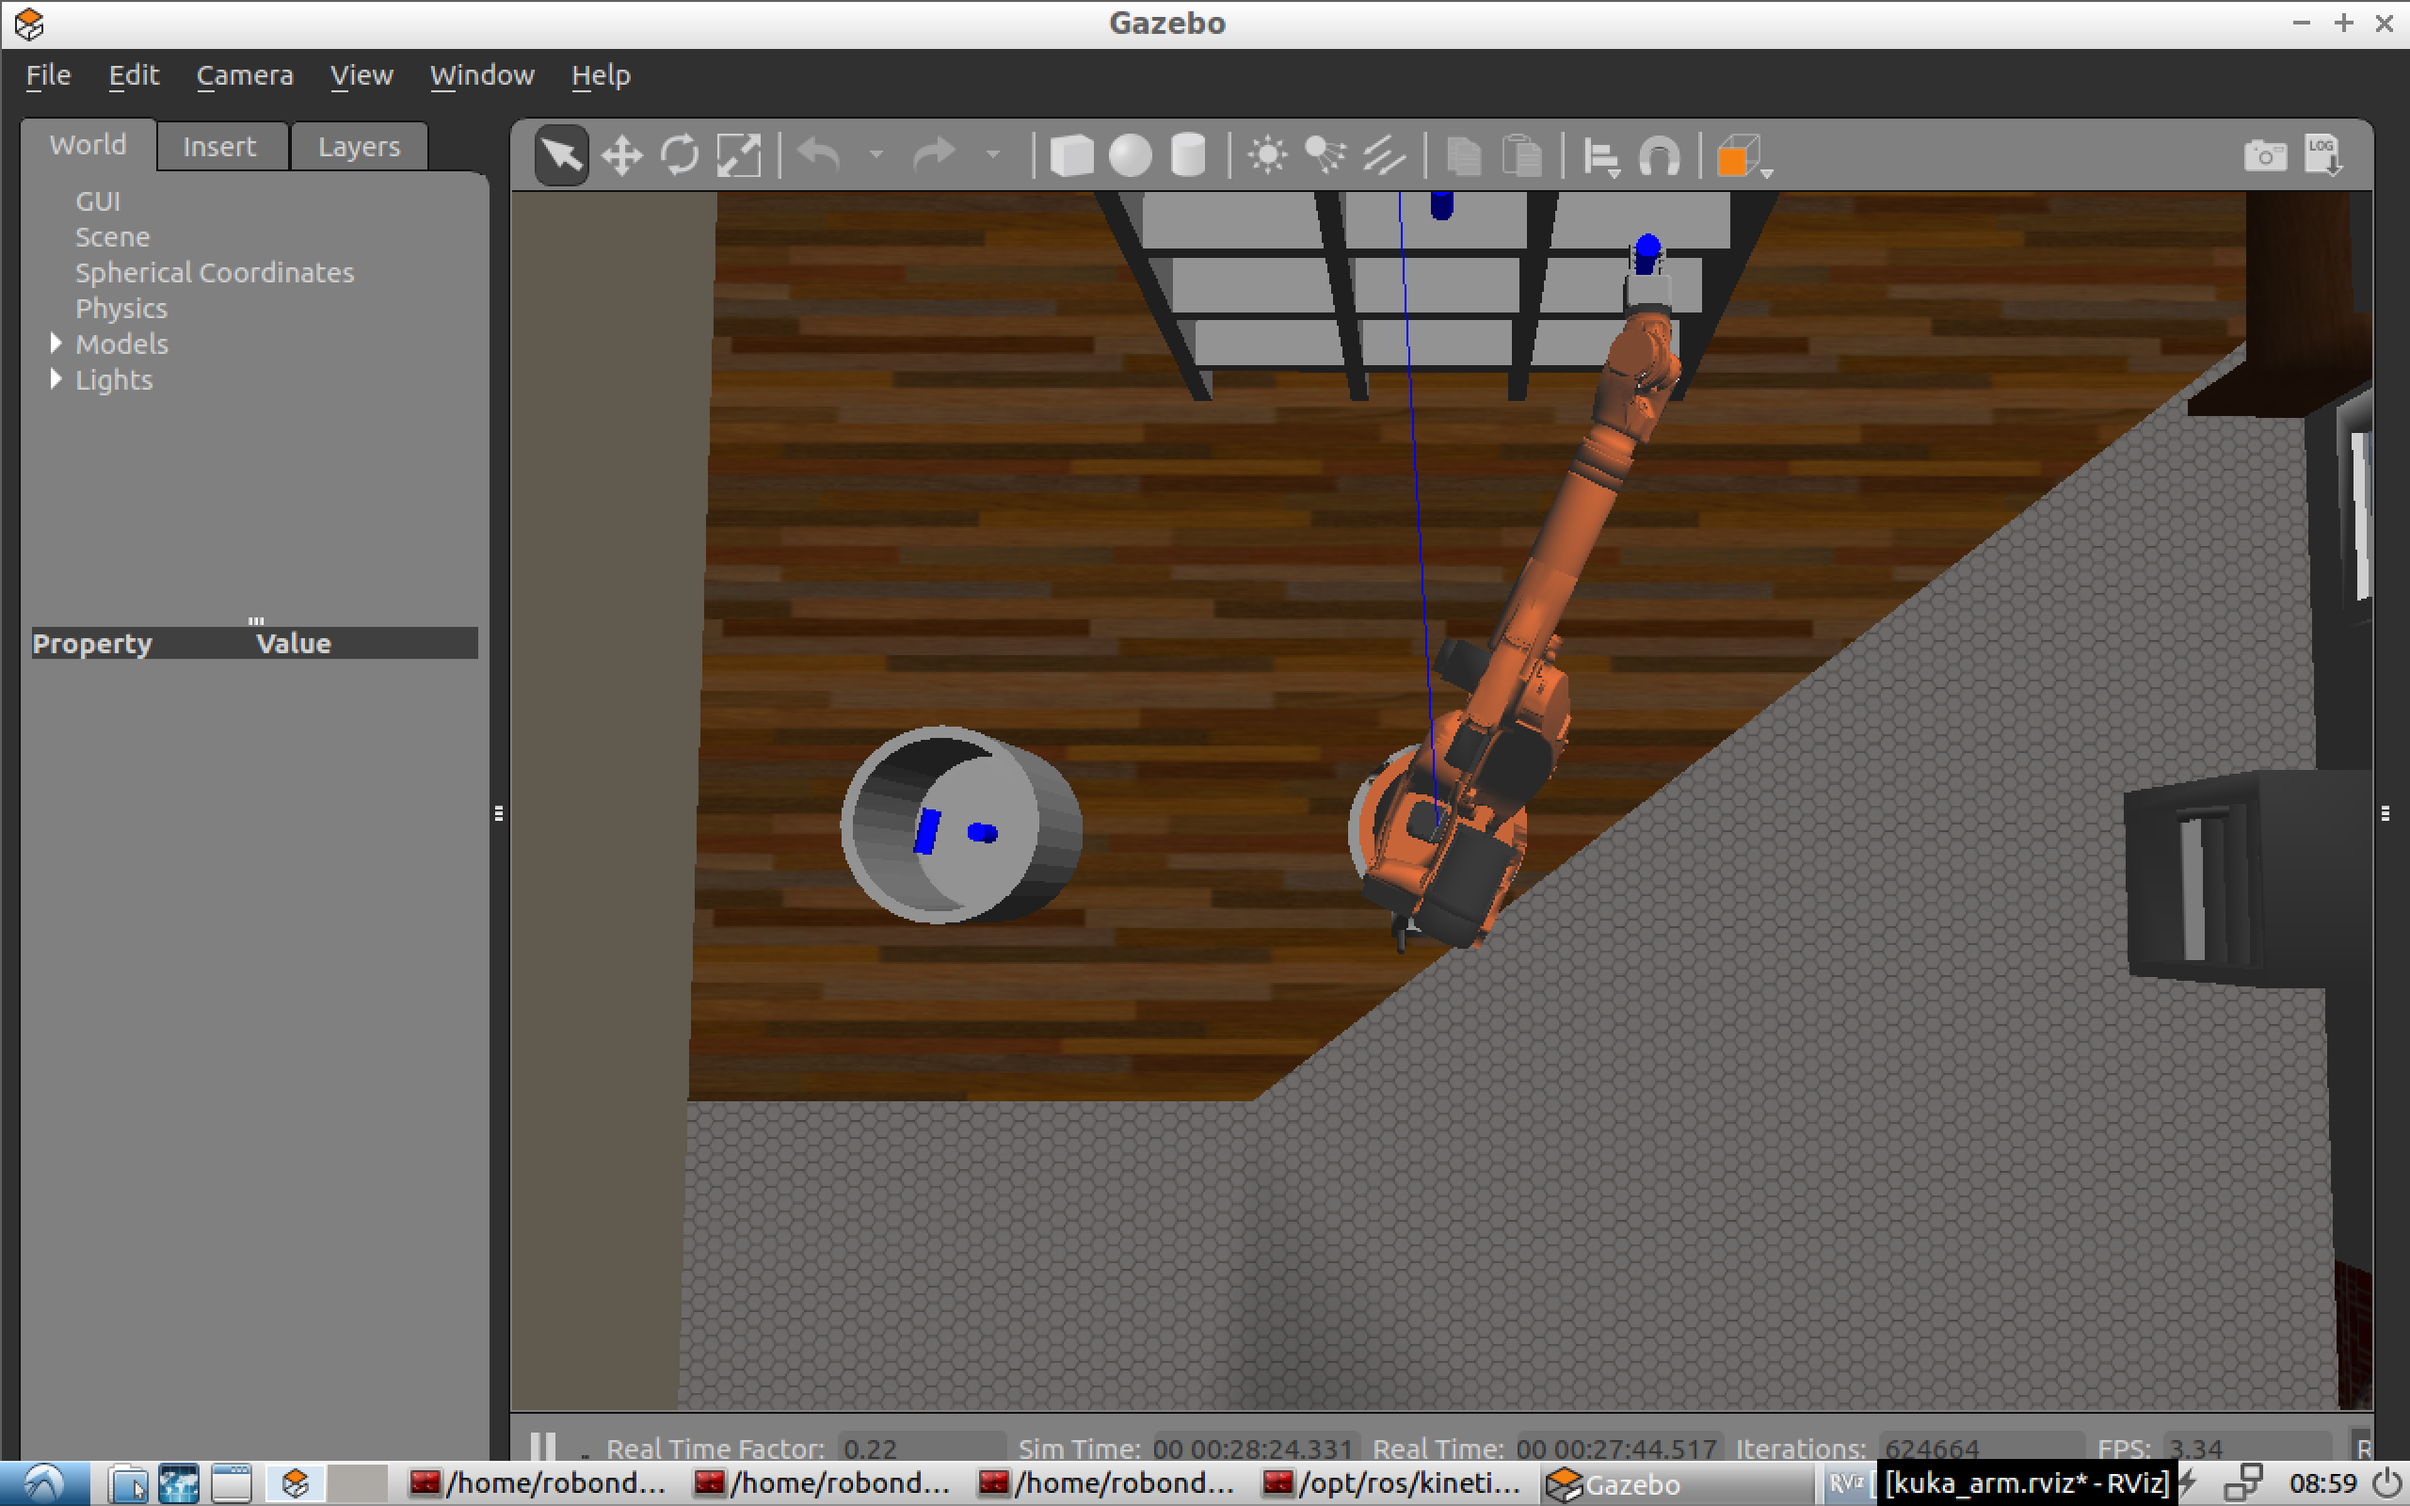
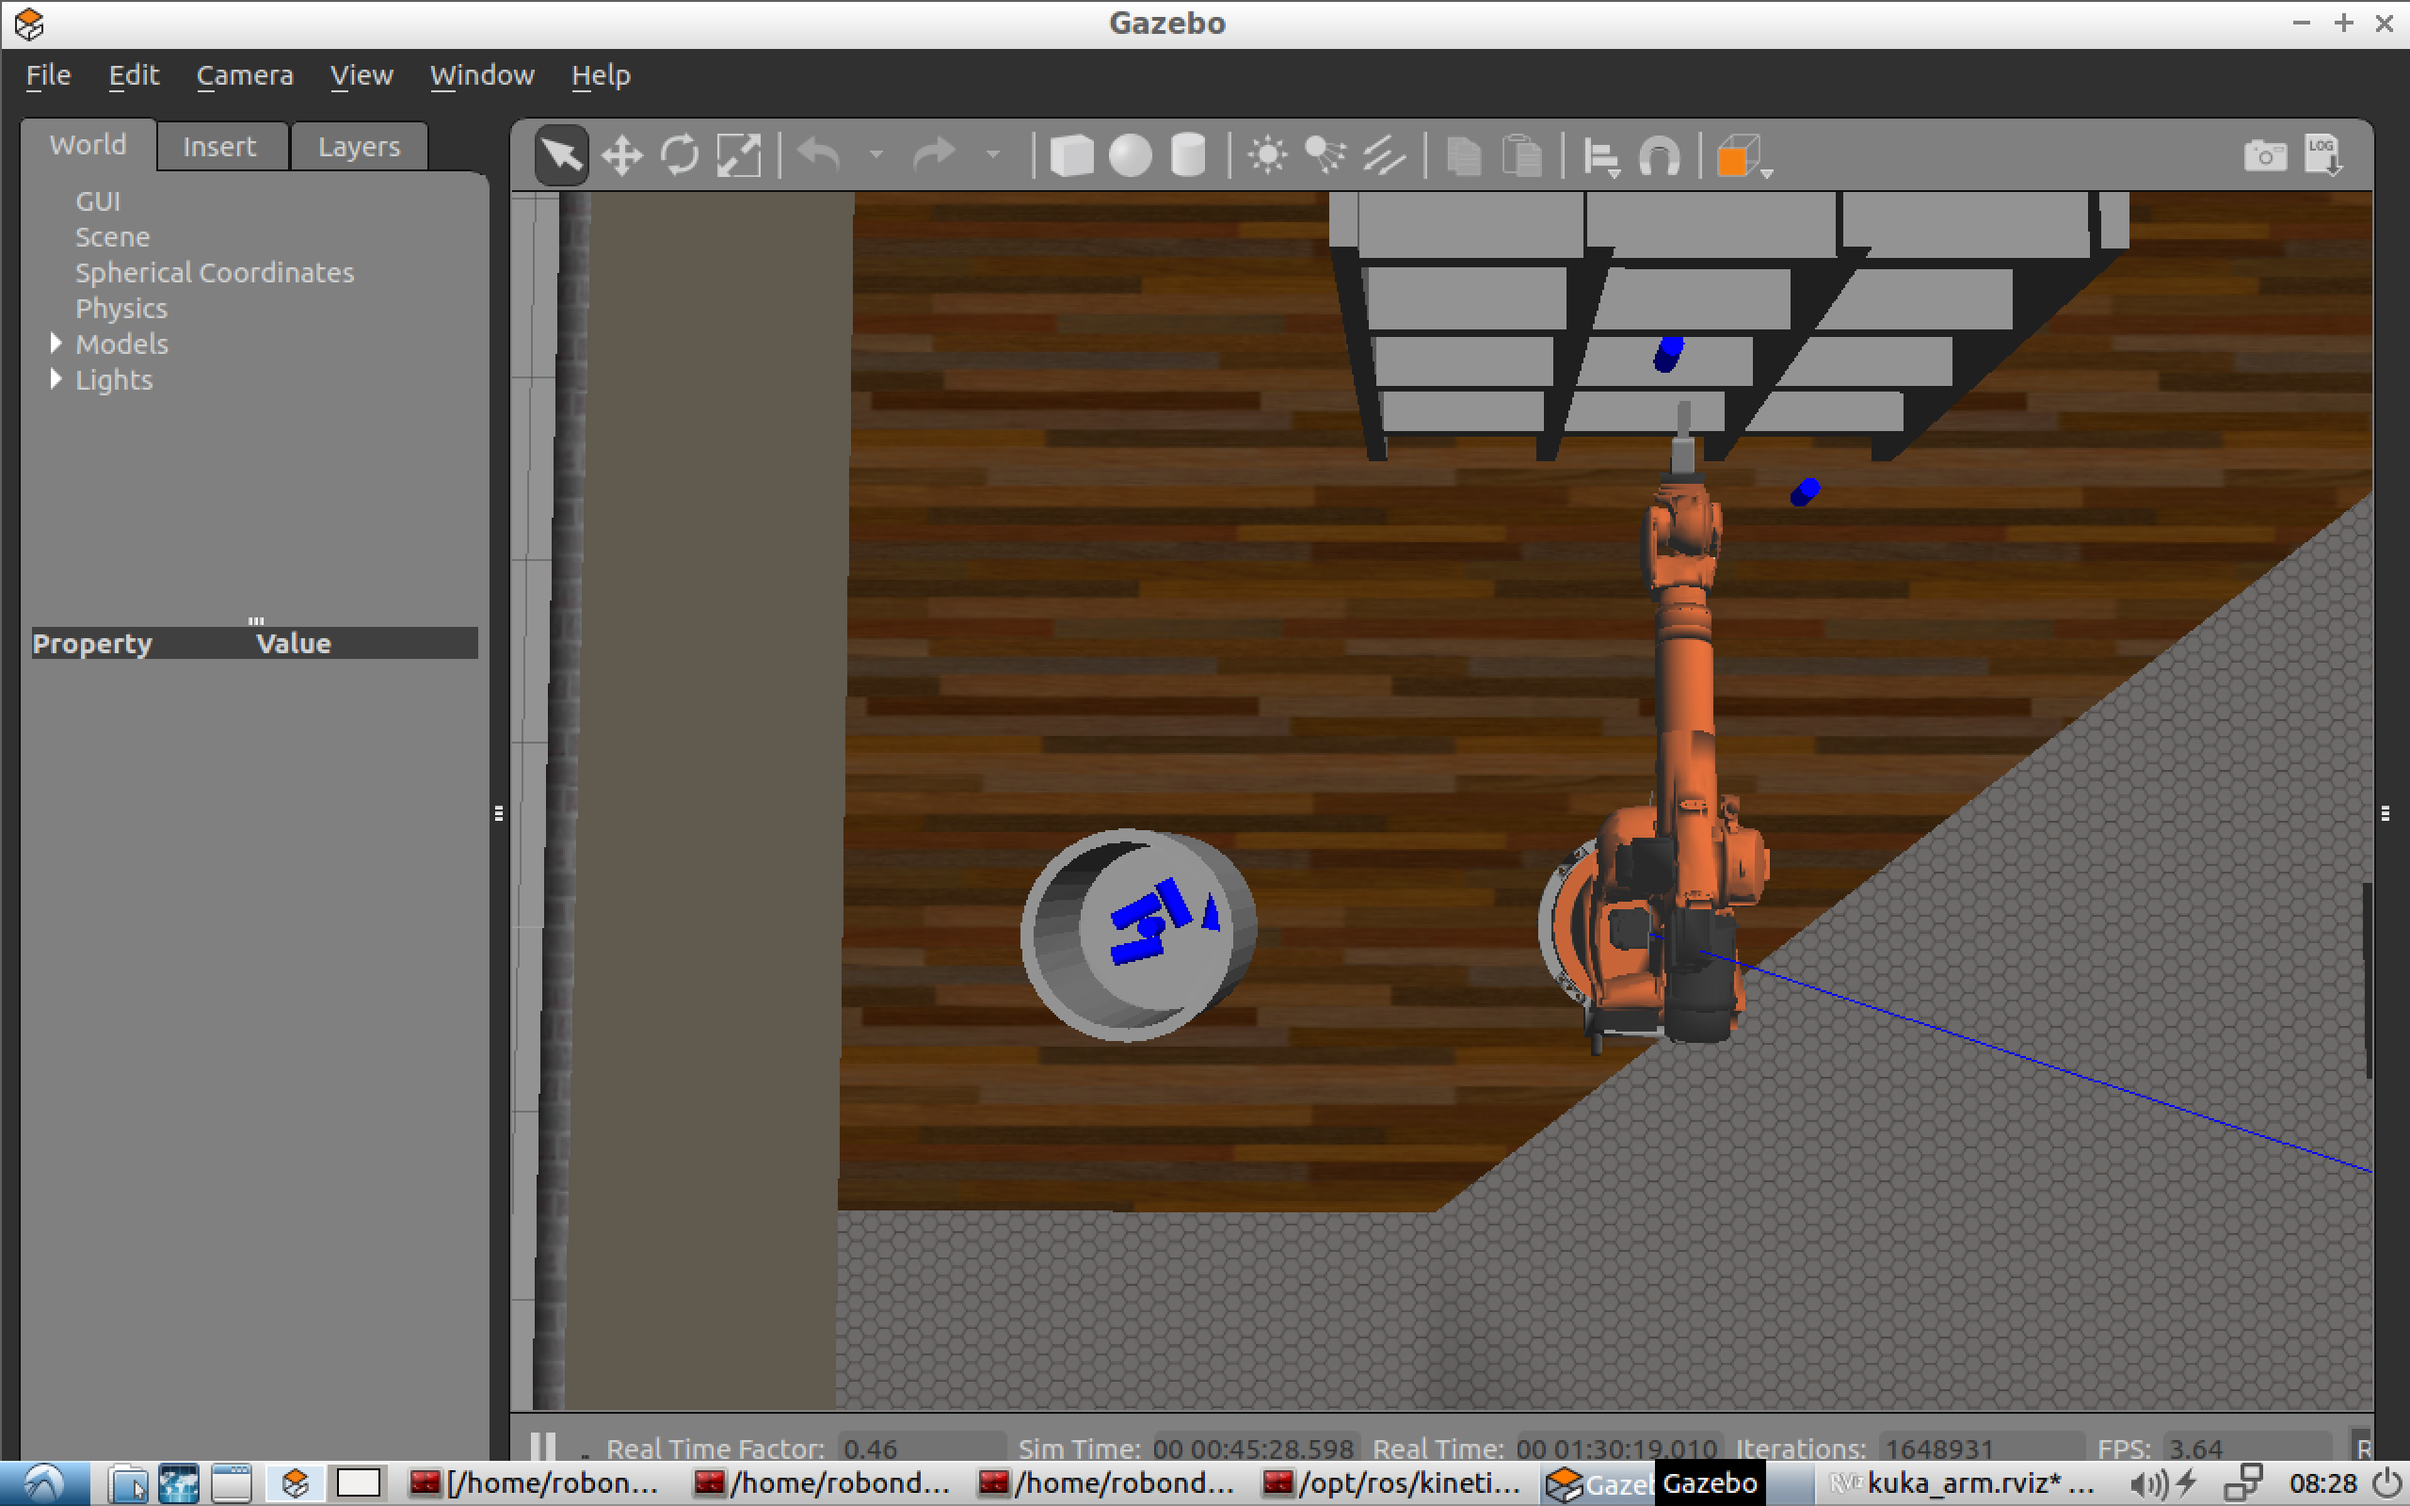
modify equations to find theta4 and theta6 in IK_server.py

diff --git a/IK_server.py b/IK_server.py
@@ -17,6 +17,8 @@ from trajectory_msgs.msg import JointTrajectory, JointTrajectoryPoint
 from geometry_msgs.msg import Pose
 from mpmath import *
 from sympy import *
+import os
+import pickle
 
 def create_TM(alpha, a, d, q):
     T = Matrix([[            cos(q),           -sin(q),           0,             a],   
@@ -69,9 +71,13 @@ def find_first_joints(WC):
     return theta1, theta2, theta3
 
 def find_last_joints(R):
-    theta6 = atan2(-R[1,1], R[1,0])
     theta5 = atan2(sqrt(R[0,2]**2 + R[2,2]**2), R[1,2])
-    theta4 = atan2(R[2,2], -R[0,2])
+    if sin(theta5) < 0:
+        theta4 = atan2(-R[2,2], R[0,2])
+        theta6 = atan2(R[1,1], -R[1,0])
+    else:
+        theta4 = atan2(R[2,2], -R[0,2])
+        theta6 = atan2(-R[1,1], R[1,0])
 
     return theta4, theta5, theta6
 
@@ -140,7 +146,13 @@ def handle_calculate_IK(req):
             
 	    # Calculate joint angles using Geometric IK method
             theta1, theta2, theta3 = find_first_joints(WC)
-            R0_3 = T0_3[:3,:3]
+
+            if not os.path.exists("R0_3.p"):
+                R0_3 = T0_3[:3,:3]
+                pickle.dump(R0_3, open("R0_3.p", "wb"))
+            else:
+                R0_3 = pickle.load(open("R0_3.p", "rb"))
+
             R0_3 = R0_3.evalf(subs={q1: theta1, q2: theta2, q3: theta3})
             R3_6 = R0_3.inv('LU') * R_G
 

diff --git a/my_writeup.md b/my_writeup.md
@@ -156,9 +156,14 @@ def find_first_joints_angle(WC):
     return theta1, theta2, theta3
 
 def find_last_joints_angle(R):
-	theta6 = atan2(-R[1,1], R[1,0])
-	theta5 = atan2(R[1,0]/cos(theta6), R[1,2])
-	theta4 = atan2(R[2,2], -R[0,2])
+    theta5 = atan2(sqrt(R[0,2]**2 + R[2,2]**2), R[1,2])
+
+    if sin(theta5) < 0:
+        theta4 = atan2(-R[2,2], R[0,2])
+        theta6 = atan2(R[1,1], -R[1,0])
+    else:
+        theta4 = atan2(R[2,2], -R[0,2])
+        theta6 = atan2(-R[1,1], R[1,0])
 
     return theta4, theta5, theta6
 
